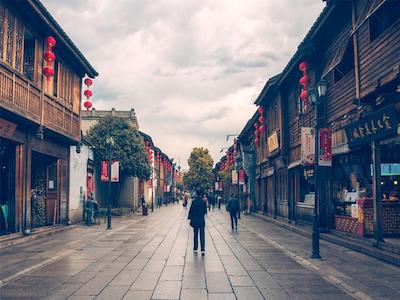
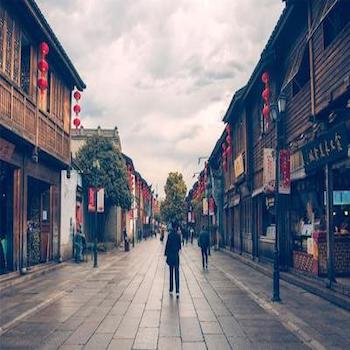
changed image sizing
- adjusted image sizings
- added missing html elements:
link to original page

diff --git a/fuzhou.php b/fuzhou.php
@@ -4,7 +4,7 @@
 
 <header>
   <div class="logo">
-    <a href="index.html">
+    <a href="index.php">
       <img src="assets/logo.jpg" alt="logo">
     </a>
   </div>
@@ -13,6 +13,10 @@
 
 <div class="info">
   <div class="para">
+    <div>
+      <img src="assets/fuzhou_skyline.jpg" alt="Fuzhou - Skyline">
+    </div>
+
     <h2>Introduction</h2>
     <p>
       Fuzhou, the capital of southeast province of Fujian, also referred to as Rongcheng (city of Banyang trees), is an important southeast coastal city faces East China Sea as well as a nearest capital city of the country faces the island of Taiwan. Located in the downstream of Min River, Fuzhou is adjacent to Ningde City, Nanping City, Sanming City and Putian City.
@@ -26,6 +30,10 @@
       It is both a historic and a cultural city with over two-thousand-year of history. Such historical sites as Sanfang Qixiang, Fujian Tulou and Mount Wuyi combining natural scenery and tea culture are waiting for you to explore.
     </p>
   </div>
+  <div class="more">
+      <!---Link to original city website: Fuzhou--->
+      <a href="http://qlin13.digitalscholar.rochester.edu/assignment01/">Learn more about Fuzhou</a>
+    </div>
 </div>
 
 <div class="info">
@@ -33,7 +41,7 @@
     <img src="assets/fuzhou_map.jpg" alt="Fuzhou - Geography">
   </div>
   <div class="para">
-    <h2 class="w3-center w3-padding-48"><span class="w3-tag w3-wide">Geography & Demographics</span></h2>
+    <h2>Geography & Demographics</h2>
 
     <p>
       Fuzhou is located in the eastern coastal of Fujian province, Min River downstream. It lies northern latitude 25 ° 15 '- 26 ° 39', east longitude 118 ° 08 '- 120 ° 31'. East faces the East China Sea and Taiwan province across the sea. The Fuzhou city belongs to the typical river basin, which is surrounded by mountains. Its height above sea level is about 600 ~ 1000 meters. Domestic terrain leans from the west to the east. It covers 12,000 square kilometers, in which, 1,043 square kilometers are planned area. The city's constructed area reaches 182.86 square kilometers.
@@ -92,7 +100,6 @@
   </div>
   <div class="para">
     <h2>Attractions</h2>
-    <h4>Sanfang Qixiang</h4>
     <p>
         Sanfang Qixiang is the only remaining old quarter of Fuzhou. Preserving over 200 ancient folk houses mainly from the Ming and Qing dynasties, it is reputed as the “Architecture Museum of the Ming and Qing Dynasties”. Since its construction in the Jin Dynasty, a great many of scholars have lived here. Therefore, Sanfang Qixiang is also known as the origin of history and culture of Fuzhou.
       </p>
@@ -113,7 +120,6 @@
   </div>
   <div class="para">
     <h2>Cuisine</h2>
-    <h3>Fo Tiao Qiang</h3>
     <p>
       One of the most renowned Fuzhou dishes is Fotiaoqiang (Buddha Jumps Over the wall). It is said to have been created by the wife of a Fuzhou official, who in 1876 was entertaining an important member of the Fujian Government in his home. His wife, who was an excellent cook placed chicken, duck, pork and seafood together into an empty wine jar to simmer following a recipe which was known at the time as 'Full of Blessing and Longevity'. When the dish was served, the visitor praised the aroma and the delicious flavor and was so impressed that when he returned home he asked the cook – Zheng Chunfa to learn how the wife of his host had prepared the food.
     </p>

diff --git a/yangzhou.php b/yangzhou.php
@@ -4,7 +4,7 @@
 
 <header>
     <div>
-      <a href="index.html">
+      <a href="index.php">
         <img src="assets/logo.jpg" alt="logo">
       </a>
     </div>
@@ -12,7 +12,9 @@
   </header>
 
 <div class="info">
-  <div></div>
+  <div>
+    <img src="assets/yangzhou_skyline.jpeg" alt="Yangzhou - Skyline">
+  </div>
   <div class="para">
     <h2>Introduction</h2>
     <p>
@@ -94,7 +96,6 @@
   </div>
   <div class="para">
     <h2>Attractions</h2>
-    <h4>Daming Temple</h4>
     <p>
       Located on Shugang Hill, in the city's northwest, is Fajing Temple, formerly known as DaMing Temple. The original temple was built in Liu Song Dynasty (420–479). A nine-story pagoda, the Qilingta, was built on the temple grounds in the year of Sui Dynasty (589–618) . A recent addition to the temple complex is the Jianzhen Memorial Hall, built according to Tang Dynasty methods and financed with contributions raised by Buddhist groups in Japan. When Qing Emperor Qian Long visited Yangzhou in 1765, he was troubled by The temple's name DaMing (which literally means "Great Ming') fearing that it might revive nostalgia for the Ming Dynasty, which was overthrown by his Manchu predecessors. He had it renamed Fajing Temple. The temple was seriously damaged during the Taiping Rebellion at the beginning of the 20th century. The present structure is a reconstruction dating from the 1930s.
     </p>
@@ -115,7 +116,6 @@
   </div>
   <div class="para">
     <h2>Cuisine</h2>
-    <h3>Yangzhou Fried Rice</h3>
     <p>
       Yangzhou fried rice is a perhaps the most well-known dish of the city of Yangzhou, Jiangsu province. The recipe was invented by Qing China's Yi Bingshou (1754–1815) and the dish was named Yangzhou fried rice since Yi was once the regional magistrate of Yangzhou. The difference between Yang Chow Fried Rice and ordinary fried rice is that Yang Chow Style invariably includes a combination of proteins. Rather than using a single protein like shrimp or pork or chicken as the dominant ingredient in fried rice, Yang Chow uses a variety. Most commonly used is a combination of pork, shrimp and frequently chicken or duck. The rest of the ingredients vary as well, but what makes Yang Chow fried rice Yang Chow Style, is the mixture.
     </p>

diff --git a/san_francisco.php b/san_francisco.php
@@ -3,7 +3,7 @@
 <body>
   <header>
     <div class="logo">
-      <a href="index.html">
+      <a href="index.php">
         <img src="assets/logo.jpg" alt="logo">
       </a>
     </div>
